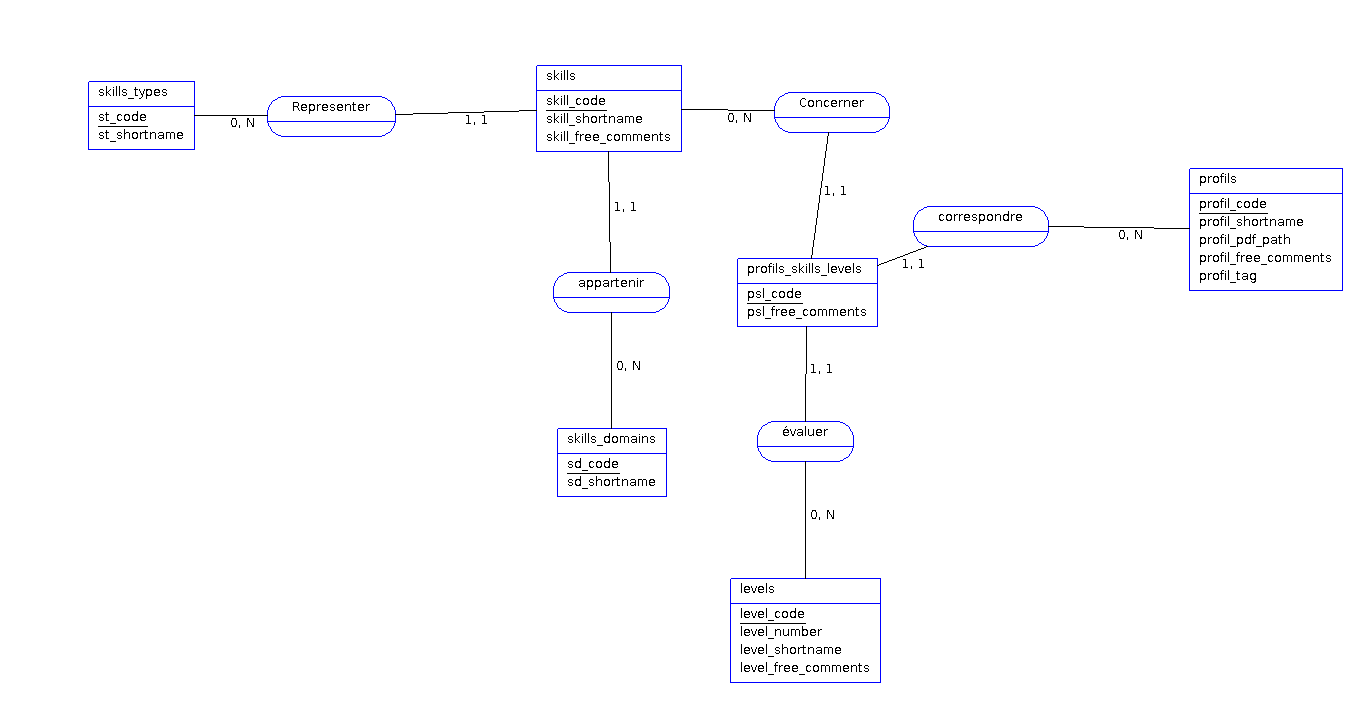
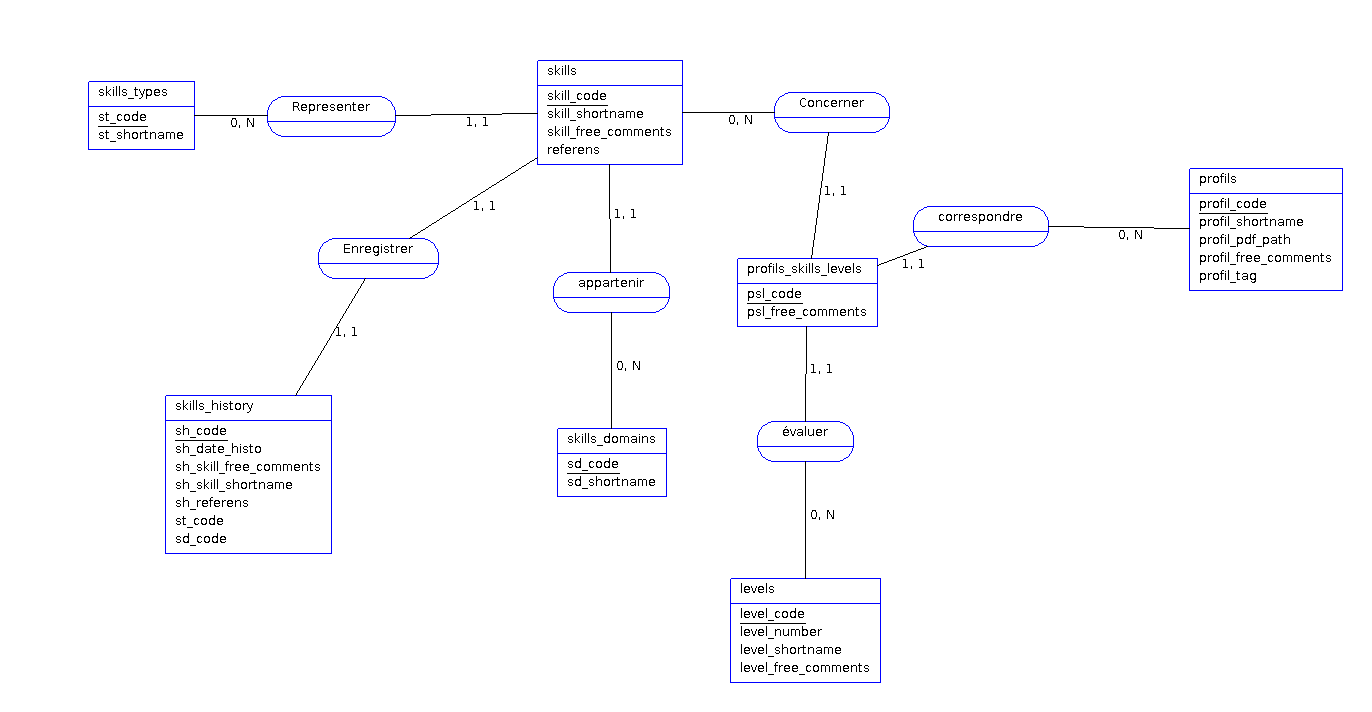
add audit on skills

diff --git a/refgpec-front/src/models/refgpec-skills-model.js b/refgpec-front/src/models/refgpec-skills-model.js
@@ -117,76 +117,74 @@ RefGpecSkillsModel.prototype.addSkill = function(
 ) {
   let self = this;
   self.ajaxLoading = true;
-
-  //get the skills from database to be sure to get the last code
-  axios
-    .get("/api/skills?order=sd_code.asc,st_code.asc,skill_shortname.asc")
-    .then(response => {
-      self.skills = {};
-      response.data.forEach(item => {
-        self.skills[item.skill_code] = item;
-      });
-    })
-    .catch(err => {
-      console.log("RefGpecSkillsModel error loading data", err);
-    });
-
+  let history = {};
   self.feedback = {
     code: "",
     message: ""
   };
-  // filter other skills family to have a correct numeric id
-  let codes = Object.keys(self.skills).filter(function(elt) {
-    return (
-      elt.indexOf(
-        "c-" + st_code.toLowerCase() + "-" + sd_code.toLowerCase()
-      ) === 0
-    );
-  });
-  let skill_code =
-    "c-" + st_code.toLowerCase() + "-" + sd_code.toLowerCase() + "-1";
-  // add +1 to the id if more than one skill in this type/domain
-  codes.sort();
-  if (codes.length > 0) {
-    let lastCodeSplitted = self.getmax(codes);
-    skill_code =
-      "c-" +
-      st_code.toLowerCase() +
-      "-" +
-      sd_code.toLowerCase() +
-      "-" +
-      parseInt(lastCodeSplitted + 1, 10);
-  }
-
+  //get the skills from history database to be sure to get the last code
   axios
-    .post("/api/skills", {
-      skill_code: skill_code,
-      skill_shortname: skill_shortname,
-      skill_free_comments: skill_free_comments,
-      sd_code: sd_code,
-      st_code: st_code
+    .get("/api/history_skills?order=sd_code.asc,st_code.asc,sh_shortname.asc")
+    .then(response => {
+      response.data.forEach(item => {
+        history[item.sh_code] = item;
+      });
+      // filter other skills family to have a correct numeric id
+      let codes = Object.keys(history).filter(function(elt) {
+        return (
+          elt.indexOf(
+            "c-" + st_code.toLowerCase() + "-" + sd_code.toLowerCase()
+          ) === 0
+        );
+      });
+      let skill_code =
+        "c-" + st_code.toLowerCase() + "-" + sd_code.toLowerCase() + "-1";
+      // add +1 to the id if more than one skill in this type/domain
+      codes.sort();
+      if (codes.length > 0) {
+        let lastCodeSplitted = self.getmax(codes);
+        skill_code =
+          "c-" +
+          st_code.toLowerCase() +
+          "-" +
+          sd_code.toLowerCase() +
+          "-" +
+          parseInt(lastCodeSplitted + 1, 10);
+      }
+
+      axios
+        .post("/api/skills", {
+          skill_code: skill_code,
+          skill_shortname: skill_shortname,
+          skill_free_comments: skill_free_comments,
+          sd_code: sd_code,
+          st_code: st_code
+        })
+        .then(function(response) {
+          self.skills[skill_code] = {
+            skill_code,
+            skill_shortname,
+            skill_free_comments,
+            sd_code,
+            st_code
+          };
+          self.ajaxLoading = false;
+          self.getdomain();
+          self.getSkillsCSV();
+          self.lastSkillAdd.push(skill_code);
+          self.inform();
+          return cb && cb(null);
+        })
+        .catch(function(error) {
+          self.feedback.code = error.response.status;
+          self.feedback.message = error.response.data.message;
+          self.ajaxLoading = false;
+          self.inform();
+          return cb && cb(error);
+        });
     })
-    .then(function(response) {
-      self.skills[skill_code] = {
-        skill_code,
-        skill_shortname,
-        skill_free_comments,
-        sd_code,
-        st_code
-      };
-      self.ajaxLoading = false;
-      self.getdomain();
-      self.getSkillsCSV();
-      self.lastSkillAdd.push(skill_code);
-      self.inform();
-      return cb && cb(null);
-    })
-    .catch(function(error) {
-      self.feedback.code = error.response.status;
-      self.feedback.message = error.response.data.message;
-      self.ajaxLoading = false;
-      self.inform();
-      return cb && cb(error);
+    .catch(err => {
+      console.log("RefGPECHistory_Skills error loading data", err);
     });
 
   self.inform();
